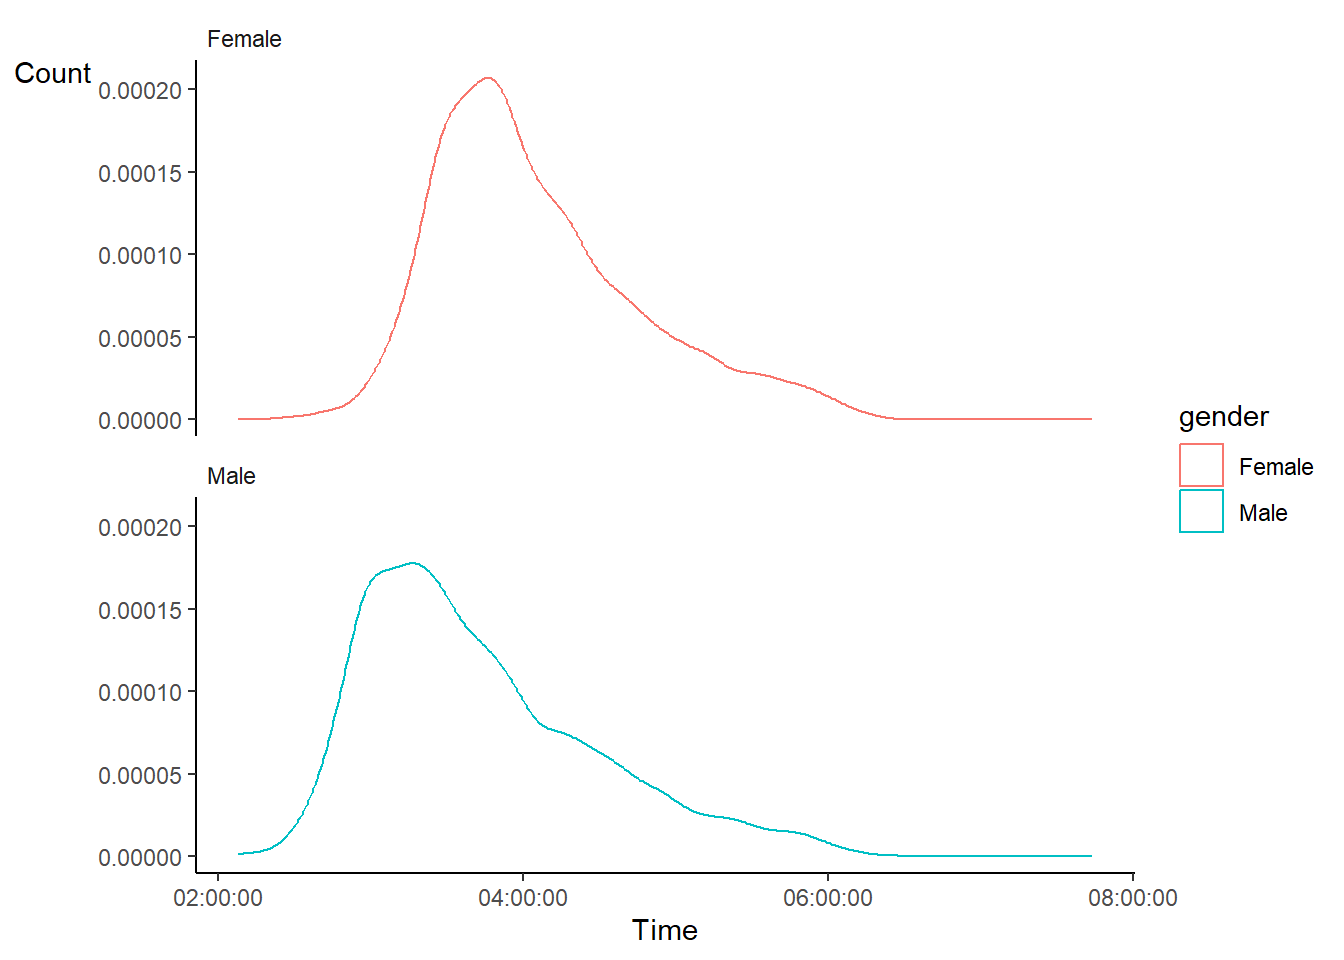
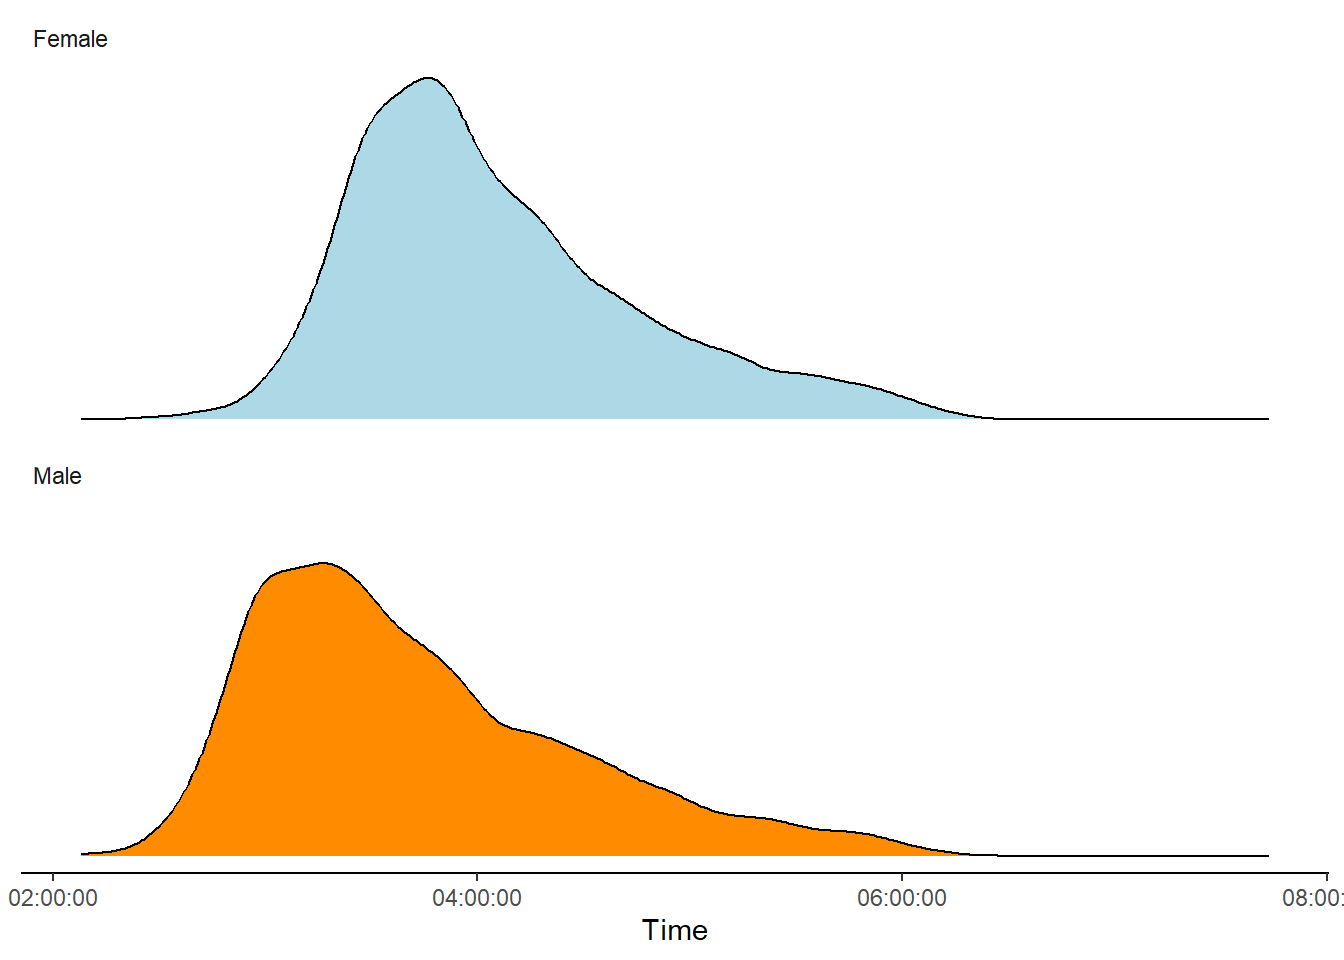
Built site for gh-pages

diff --git a/03-data-distributions.html b/03-data-distributions.html
@@ -219,7 +219,7 @@ Figure&nbsp;3.1: Results from the Boston marathon 2019 displayed as histograms p
 </div>
 </div>
 </div>
-<p>An alternative to the histogram is a density plot. The density plot shows us the relative density of observations along the scale of the variable of interest. Often, the curve shows a smoothed estimate of the distribution (<a href="#fig-density" class="quarto-xref">Figure&nbsp;<span>3.2</span></a>).</p>
+<p>An alternative to the histogram is a density plot. The density plot shows us the relative density of observations along the scale of the variable of interest. Often, the curve shows a smoothed estimate of the distribution (<a href="#fig-density" class="quarto-xref">Figure&nbsp;<span>3.2</span></a>). In a density plot, the y-axis may be omitted as the values are arbitrary.</p>
 <div class="cell">
 <div class="cell-output-display">
 <div id="fig-density" class="quarto-float quarto-figure quarto-figure-center anchored">
